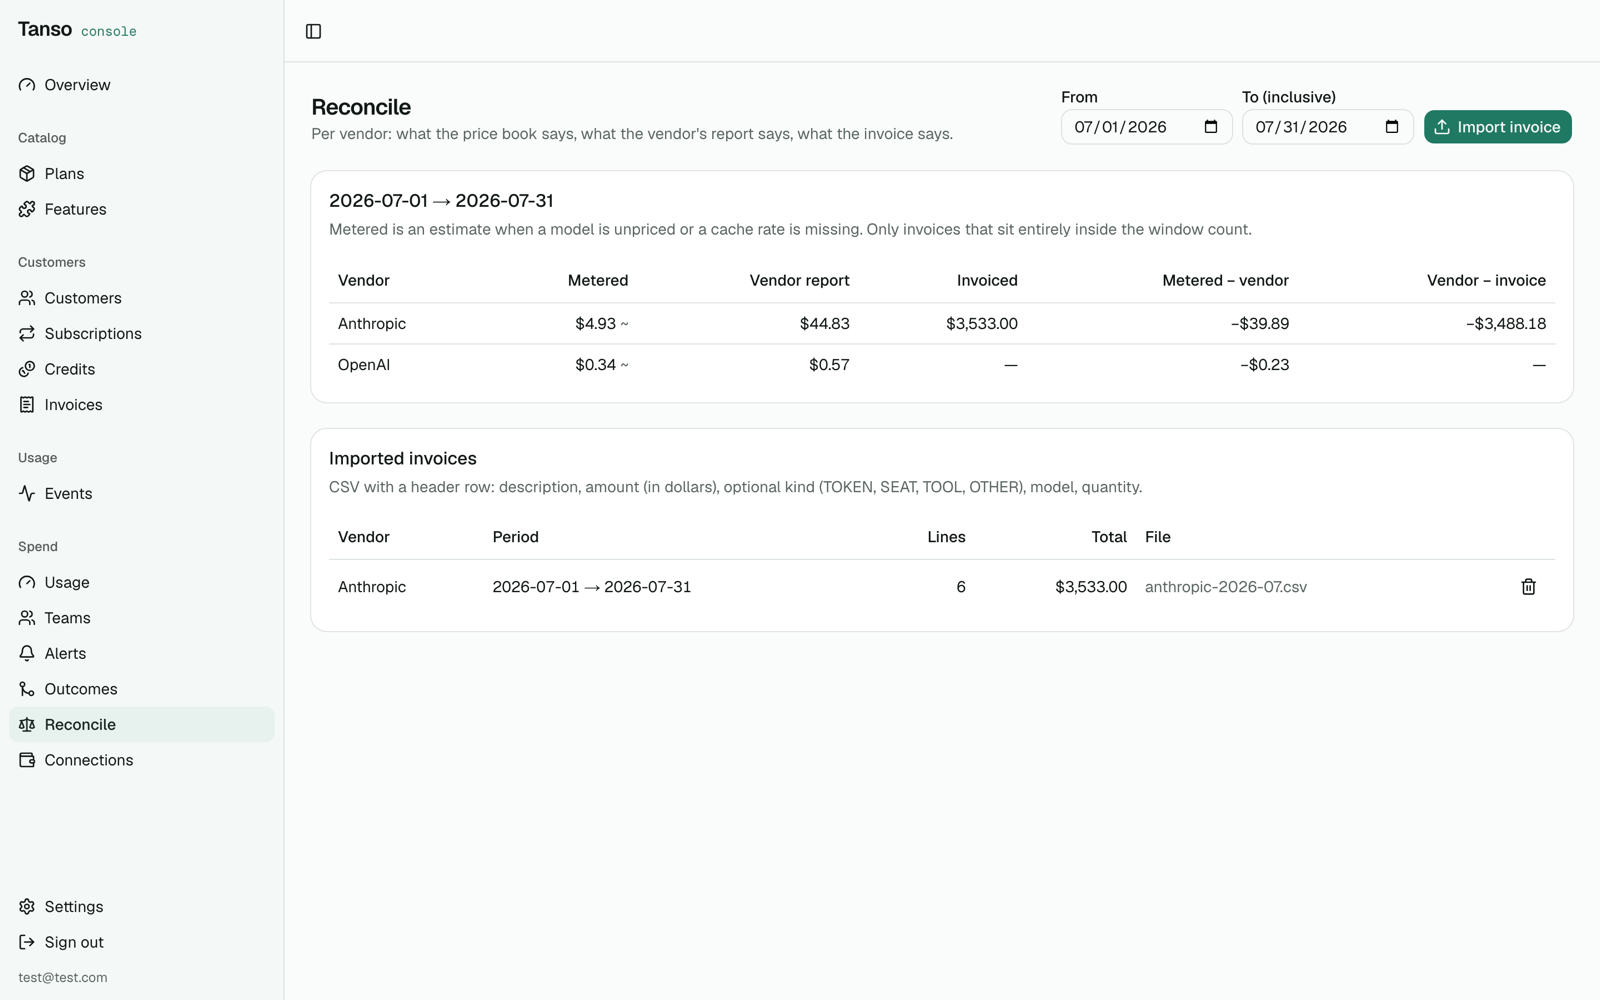
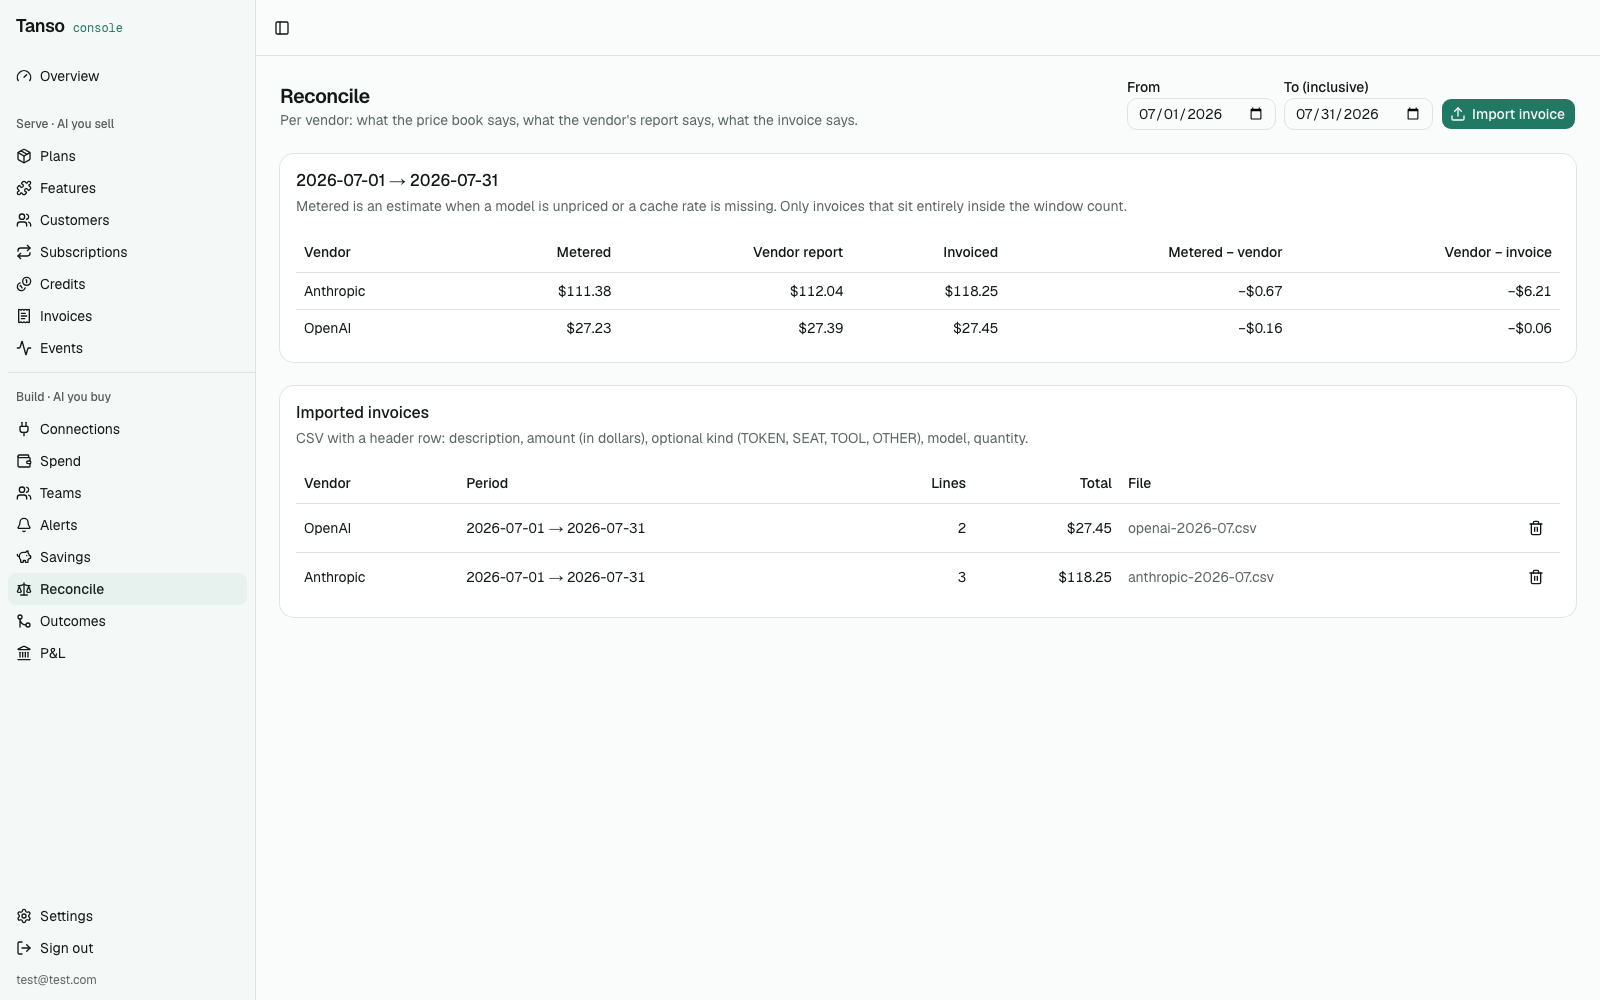
console: name the two halves, and put every README screenshot in light mode
The sidebar mixed four groups (Catalog, Customers, Usage, Spend) with "Usage"
meaning two different things, and hid Connections at the bottom of a group
that shows nothing until a vendor is connected. Now two groups, Customer
billing and Internal spend, with Connections first. Tabs were considered and
rejected: they would hide the internal spend half from operators who only
know the billing side, which is the opposite of the pitch.

Three README screenshots and the plan GIF were still dark-theme captures from
early August next to the light-theme set from the 25th. Recaptured in light,
and the Reconcile shot now uses figures that agree within a few dollars
instead of an invoice 80x the vendor report.

README intro leads with spend visibility in both directions; the two halves
are named the same way everywhere.

diff --git a/ui/components/app-sidebar.tsx b/ui/components/app-sidebar.tsx
@@ -10,6 +10,7 @@ import {
   GitMerge,
   LogOut,
   Package,
+  Plug,
   Puzzle,
   ReceiptText,
   Repeat,
@@ -32,33 +33,33 @@ import {
   SidebarMenu,
   SidebarMenuButton,
   SidebarMenuItem,
+  SidebarSeparator,
 } from "@/components/ui/sidebar"
 import { clearToken, getClaims } from "@/lib/auth"
 import { isBuildSideOff, useVendorConnections } from "@/features/spend/queries"
 
-const catalogNav = [
+// Customer billing: the AI you sell. Plans, credits, margin per customer.
+const serveNav = [
   { title: "Plans", href: "/plans", icon: Package },
   { title: "Features", href: "/features", icon: Puzzle },
-]
-
-const customersNav = [
   { title: "Customers", href: "/customers", icon: Users },
   { title: "Subscriptions", href: "/subscriptions", icon: Repeat },
   { title: "Credits", href: "/credits", icon: Coins },
   { title: "Invoices", href: "/invoices", icon: ReceiptText },
+  { title: "Events", href: "/events", icon: Activity },
 ]
 
-const usageNav = [{ title: "Events", href: "/events", icon: Activity }]
-
-const spendNav = [
-  { title: "Usage", href: "/spend/usage", icon: Gauge },
+// Internal spend: the AI you buy. Connections first, since nothing else here
+// shows anything until a vendor is connected.
+const buildNav = [
+  { title: "Connections", href: "/spend/connections", icon: Plug },
+  { title: "Spend", href: "/spend/usage", icon: Wallet },
   { title: "Teams", href: "/spend/teams", icon: Users },
   { title: "Alerts", href: "/spend/alerts", icon: Bell },
-  { title: "Outcomes", href: "/spend/outcomes", icon: GitMerge },
   { title: "Savings", href: "/spend/savings", icon: PiggyBank },
-  { title: "P&L", href: "/spend/pnl", icon: Landmark },
   { title: "Reconcile", href: "/spend/reconcile", icon: Scale },
-  { title: "Connections", href: "/spend/connections", icon: Wallet },
+  { title: "Outcomes", href: "/spend/outcomes", icon: GitMerge },
+  { title: "P&L", href: "/spend/pnl", icon: Landmark },
 ]
 
 export function AppSidebar() {
@@ -75,6 +76,20 @@ export function AppSidebar() {
   function logout() {
     clearToken()
     router.replace("/login")
+  }
+
+  function renderItems(items: typeof serveNav) {
+    return items.map((item) => (
+      <SidebarMenuItem key={item.href}>
+        <SidebarMenuButton
+          render={<Link href={item.href} />}
+          isActive={isActive(item.href)}
+        >
+          <item.icon />
+          {item.title}
+        </SidebarMenuButton>
+      </SidebarMenuItem>
+    ))
   }
 
   return (
@@ -104,78 +119,21 @@ export function AppSidebar() {
           </SidebarGroupContent>
         </SidebarGroup>
         <SidebarGroup>
-          <SidebarGroupLabel>Catalog</SidebarGroupLabel>
+          <SidebarGroupLabel>Customer billing</SidebarGroupLabel>
           <SidebarGroupContent>
-            <SidebarMenu>
-              {catalogNav.map((item) => (
-                <SidebarMenuItem key={item.href}>
-                  <SidebarMenuButton
-                    render={<Link href={item.href} />}
-                    isActive={isActive(item.href)}
-                  >
-                    <item.icon />
-                    {item.title}
-                  </SidebarMenuButton>
-                </SidebarMenuItem>
-              ))}
-            </SidebarMenu>
-          </SidebarGroupContent>
-        </SidebarGroup>
-        <SidebarGroup>
-          <SidebarGroupLabel>Customers</SidebarGroupLabel>
-          <SidebarGroupContent>
-            <SidebarMenu>
-              {customersNav.map((item) => (
-                <SidebarMenuItem key={item.href}>
-                  <SidebarMenuButton
-                    render={<Link href={item.href} />}
-                    isActive={isActive(item.href)}
-                  >
-                    <item.icon />
-                    {item.title}
-                  </SidebarMenuButton>
-                </SidebarMenuItem>
-              ))}
-            </SidebarMenu>
-          </SidebarGroupContent>
-        </SidebarGroup>
-        <SidebarGroup>
-          <SidebarGroupLabel>Usage</SidebarGroupLabel>
-          <SidebarGroupContent>
-            <SidebarMenu>
-              {usageNav.map((item) => (
-                <SidebarMenuItem key={item.href}>
-                  <SidebarMenuButton
-                    render={<Link href={item.href} />}
-                    isActive={isActive(item.href)}
-                  >
-                    <item.icon />
-                    {item.title}
-                  </SidebarMenuButton>
-                </SidebarMenuItem>
-              ))}
-            </SidebarMenu>
+            <SidebarMenu>{renderItems(serveNav)}</SidebarMenu>
           </SidebarGroupContent>
         </SidebarGroup>
         {!buildSideOff && (
-          <SidebarGroup>
-            <SidebarGroupLabel>Spend</SidebarGroupLabel>
-            <SidebarGroupContent>
-              <SidebarMenu>
-                {spendNav.map((item) => (
-                  <SidebarMenuItem key={item.href}>
-                    <SidebarMenuButton
-                      render={<Link href={item.href} />}
-                      isActive={isActive(item.href)}
-                    >
-                      <item.icon />
-                      {item.title}
-                    </SidebarMenuButton>
-                  </SidebarMenuItem>
-                ))}
-              </SidebarMenu>
-            </SidebarGroupContent>
-          </SidebarGroup>
+          <>
+            <SidebarSeparator />
+            <SidebarGroup>
+              <SidebarGroupLabel>Internal spend</SidebarGroupLabel>
+              <SidebarGroupContent>
+                <SidebarMenu>{renderItems(buildNav)}</SidebarMenu>
+              </SidebarGroupContent>
+            </SidebarGroup>
+          </>
         )}
       </SidebarContent>
       <SidebarFooter>

diff --git a/README.md b/README.md
@@ -4,9 +4,10 @@
 
 # Tanso Core
 
-**Open-source monetization engine for B2B AI products** — for teams that sell
-credits or usage and whose inference costs are big enough that margin per
-customer is a real question.
+**Open-source cost and pricing engine for AI products.** See what your teams
+spend on AI, by team, project and person, reconciled to the vendor's invoice.
+See what each customer costs you to serve, and price on it. One ledger, both
+directions.
 
 [Website](https://tansohq.com) · [Quick start](#quick-start-docker) · [Next.js example](#try-the-five-credit-nextjs-example) · [Features](#features) · [Agents & MCP](#agents--mcp) · [API & SDKs](#api-reference--sdks) · [Contributing](CONTRIBUTING.md) · [Docs](https://tanso.mintlify.app/introduction)
 
@@ -19,11 +20,19 @@ customer is a real question.
 
 ## Why Tanso
 
-Every metered event carries its cost: input/output tokens, model, provider,
-and what that usage cost you — alongside what you billed for it. Billing tools
-meter usage but don't know your costs; observability tools know your costs but
-don't bill. Tanso does both in one ledger, so you can see margin per customer,
-per feature, per model.
+People want to see where the AI money goes, and today it is split across a
+vendor bill that only shows a total, a billing tool that meters usage but
+doesn't know your costs, and an observability tool that knows your costs but
+doesn't bill. Tanso puts both directions on one ledger.
+
+For the AI you sell, every metered event carries its cost: input/output tokens,
+model, provider, and what that usage cost you, next to what you billed for it.
+Margin per customer, per feature, per model falls out of the same ledger that
+bills. For the AI you buy, usage and cost are pulled from the vendors' own admin
+APIs (Anthropic, OpenAI, Cursor, GitHub Copilot, LiteLLM), reconciled to the
+invoice, allocated to teams and projects, capped, and joined to what shipped.
+No proxy, no agent on laptops, no prompts collected. See
+[Internal AI spend](#internal-ai-spend).
 
 The same ledger enforces in real time: entitlement checks, usage caps, and
 credit limits are applied when the event is ingested, not reconciled at
@@ -244,17 +253,17 @@ psql "postgresql://dev_user:dev_pass@localhost:5432/core_db" \
 
 ---
 
-## Internal AI spend (build side)
+## Internal AI spend
 
-The engine has two halves. The **serve side** — everything above — answers what
-it costs to serve each customer. The **build side** answers what your own AI
-spend is: the Anthropic and OpenAI bills for your engineers and agents.
+The engine has two halves. **Customer billing**, everything above, answers what
+it costs to serve each customer. **Internal spend** answers what your own AI
+costs: the Anthropic and OpenAI bills for your engineers and agents.
 
-<img src=".github/assets/screenshots/spend-usage.png" alt="Spend → Usage — internal AI usage by model, by person, by day; price-book cost next to the vendor's report" width="800" />
+<img src=".github/assets/screenshots/spend-usage.png" alt="Internal spend → Usage — internal AI usage by model, by person, by day; price-book cost next to the vendor's report" width="800" />
 
 It works from the vendor's admin API, not a proxy in your request path:
 
-1. **Spend → Connections**: store an Anthropic admin key (`sk-ant-admin01-…`),
+1. **Internal spend → Connections**: store an Anthropic admin key (`sk-ant-admin01-…`),
    an OpenAI admin key, a Cursor admin API key (Enterprise; sent as HTTP
    Basic with the key as username; Cursor caps a window at 30 days, so a
    longer sync is pulled in 30-day chunks), a GitHub token with the *View
@@ -266,20 +275,20 @@ It works from the vendor's admin API, not a proxy in your request path:
    characters are ever shown. **Check key** makes one call to prove it works;
    **Sync now** pulls the last 30 days. An hourly job re-pulls the last three
    days after that (vendor reports lag by up to an hour).
-2. **Spend → Usage**: tokens and cost by model, by day, and by person, two
+2. **Internal spend → Usage**: tokens and cost by model, by day, and by person, two
    ways — what the price book (`model_pricing`) says the tokens should cost
    and what the vendor's own cost report says. The by-person view also shows
    what each vendor reports per seat: Claude Code sessions, commits, PRs and
    tool accept/reject; Cursor accepted lines, accepts/rejects and requests;
    Copilot interactions, accepted code and AI credits. Anthropic reports
    people only for Claude Code; OpenAI only for user-scoped keys.
-3. **Spend → Reconcile**: per vendor and period, metered vs vendor-reported
+3. **Internal spend → Reconcile**: per vendor and period, metered vs vendor-reported
    vs invoiced, with the two variances. Import the bill as a CSV with a header
    row — `description, amount` (dollars), optional `kind` (TOKEN, SEAT, TOOL,
    OTHER), `model`, `quantity`. An invoice only counts toward a window it sits
    entirely inside.
 
-4. **Spend → Teams**: units (teams, projects, and — once switched on — people,
+4. **Internal spend → Teams**: units (teams, projects, and — once switched on — people,
    nested however you like) and attribution rules that map a vendor workspace
    or project id, an API key id, or an actor onto a unit. Rules apply at
    report time, so editing one re-allocates history; when several rules match
@@ -289,7 +298,7 @@ It works from the vendor's admin API, not a proxy in your request path:
    measure that total. Each unit can carry a budget: a small **daily**
    ceiling that catches a runaway agent and a **monthly** one for the real
    number (UTC calendar windows), with an alert threshold (default 80%).
-5. **Spend → Alerts**: threshold and breach alerts on each ceiling, plus a
+5. **Internal spend → Alerts**: threshold and breach alerts on each ceiling, plus a
    **spike** when a unit has spent at least $5 today and more than twice its
    trailing-seven-day daily average — each once per window,
    checked after every sync and hourly; acknowledge to clear. Posted to a
@@ -302,7 +311,7 @@ It works from the vendor's admin API, not a proxy in your request path:
    touching the standing number; it drops off on its own and is re-pushed to
    the gateway both ways. A **weekly digest** (Monday 08:00 UTC, opt-in) sends
    last week's spend per unit against the week before, with budget standing,
-   to the same channels; preview or send it from Spend → Alerts. Tanso is not
+   to the same channels; preview or send it from Internal spend → Alerts. Tanso is not
    in the request path, so on its own a "Block" budget cannot stop a request —
    its alert says so. **Gateway mode**: connect a LiteLLM proxy and add a
    LiteLLM rule to the unit (its team id, key or user); a Block budget is then
@@ -314,7 +323,7 @@ It works from the vendor's admin API, not a proxy in your request path:
    measures the budget on its price book, LiteLLM enforces against its own
    model map — the card shows both figures so the drift is visible.
 
-6. **Spend → Savings**: what prompt caching is worth — per model, the
+6. **Internal spend → Savings**: what prompt caching is worth — per model, the
    input-side cost as billed against the same tokens with no cache (cache-read
    share, cache writes, $ saved; models without cache rates read as zero and
    say so) — and a **route simulator**: pick a model's traffic, a target from
@@ -322,7 +331,7 @@ It works from the vendor's admin API, not a proxy in your request path:
    target's rates with the caveats spelled out (tokenizer drift, no cache
    rates, quality not modelled). Advice only; Tanso never routes.
 
-7. **Spend → P&L**: the join the two halves exist for. Link a *project*
+7. **Internal spend → P&L**: the join the two halves exist for. Link a *project*
    unit to the serve-side feature it shipped (Teams → the project → Feature),
    and the report puts the project's AI build cost (its attributed spend, with
    descendants) next to that feature's revenue and serving cost from the
@@ -332,19 +341,19 @@ It works from the vendor's admin API, not a proxy in your request path:
    make the serve margin equal the revenue. Projects with no feature are
    listed, not hidden.
 
-<img src=".github/assets/screenshots/spend-teams.png" alt="Spend → Teams — allocation to projects, teams and people, with roll-up and the person's Claude Code estimate kept separate" width="800" />
+<img src=".github/assets/screenshots/spend-teams.png" alt="Internal spend → Teams — allocation to projects, teams and people, with roll-up and the person's Claude Code estimate kept separate" width="800" />
 
-<img src=".github/assets/screenshots/spend-alerts.png" alt="Spend → Alerts — daily breach and monthly threshold alerts, once per window" width="800" />
+<img src=".github/assets/screenshots/spend-alerts.png" alt="Internal spend → Alerts — daily breach and monthly threshold alerts, once per window" width="800" />
 
-<img src=".github/assets/screenshots/spend-gateway-budget.png" alt="Spend → Teams — a Block budget enforced at LiteLLM, bumped for launch week, with the gateway's own count beside Tanso's" width="800" />
+<img src=".github/assets/screenshots/spend-gateway-budget.png" alt="Internal spend → Teams — a Block budget enforced at LiteLLM, bumped for launch week, with the gateway's own count beside Tanso's" width="800" />
 
-<img src=".github/assets/screenshots/spend-digest.png" alt="Spend → Alerts — the weekly digest: last week per unit against the week before, month-to-date against the ceiling" width="800" />
+<img src=".github/assets/screenshots/spend-digest.png" alt="Internal spend → Alerts — the weekly digest: last week per unit against the week before, month-to-date against the ceiling" width="800" />
 
-<img src=".github/assets/screenshots/spend-savings.png" alt="Spend → Savings — what prompt caching saved per model, and a route simulation of the same tokens on another model" width="800" />
+<img src=".github/assets/screenshots/spend-savings.png" alt="Internal spend → Savings — what prompt caching saved per model, and a route simulation of the same tokens on another model" width="800" />
 
-<img src=".github/assets/screenshots/spend-pnl.png" alt="Spend → P&L — a project's AI build cost next to the revenue and serving cost of the feature it shipped" width="800" />
+<img src=".github/assets/screenshots/spend-pnl.png" alt="Internal spend → P&L — a project's AI build cost next to the revenue and serving cost of the feature it shipped" width="800" />
 
-6. **Spend → Outcomes**: shipped work next to what it cost. Connect GitHub
+6. **Internal spend → Outcomes**: shipped work next to what it cost. Connect GitHub
    (merged pull requests per repo) or Linear (completed issues per team), or
    have any CI job post one: `POST /api/v1/client/outcomes` with the tenant
    `sk_` key (or `/api/v1/spend/outcomes` with a console JWT) and a body of
@@ -364,7 +373,7 @@ It works from the vendor's admin API, not a proxy in your request path:
    cost per merged PR, per team, per month. Pulled hourly for the last three
    days; re-pulls upsert.
 
-<img src=".github/assets/screenshots/spend-outcomes.png" alt="Spend → Outcomes — merged PRs and completed issues next to allocated spend: cost per outcome per unit" width="800" />
+<img src=".github/assets/screenshots/spend-outcomes.png" alt="Internal spend → Outcomes — merged PRs and completed issues next to allocated spend: cost per outcome per unit" width="800" />
 
 Person-level attribution is **off by default**. Attributing spend to a named
 employee is a monitoring capability (in Germany a works council can veto it);
@@ -421,7 +430,7 @@ supply them via environment variables. The common ones:
 | `MASTER_ACCOUNT_ID` / `DEFAULT_FREE_PLAN_ID` | Dogfooding identifiers |
 | `TANSO_TELEMETRY_ENABLED` | Anonymous instance telemetry (`true` by default, set `false` to opt out) |
 | `APP_MODULES_BUILD_ENABLED` | Internal AI spend — the console's Spend section and `/api/v1/spend/**` (`true` by default; `false` for a serve-side-only install) When `false`, every `/api/v1/spend/**` call answers 404 with `error.code: module_disabled`, which is what the console keys on to hide the Spend group |
-| `APP_SPEND_ANTHROPIC_BASE_URL` / `APP_SPEND_OPENAI_BASE_URL` | Where the build side pulls usage and cost from (defaults: the vendors' APIs; set to a gateway or proxy) |
+| `APP_SPEND_ANTHROPIC_BASE_URL` / `APP_SPEND_OPENAI_BASE_URL` | Where internal spend pulls usage and cost from (defaults: the vendors' APIs; set to a gateway or proxy) |
 | `APP_SPEND_GITHUB_BASE_URL` / `APP_SPEND_LINEAR_BASE_URL` | Where outcomes (and Copilot metrics) are pulled from (defaults: api.github.com, api.linear.app/graphql) |
 | `APP_SPEND_CURSOR_BASE_URL` | Where Cursor usage is pulled from (default api.cursor.com) |
 | `APP_SPEND_OUTBOUND_ALLOW_PRIVATE` | Whether operator-typed URLs (LiteLLM proxy, webhook) may point at private ranges (default `true` — a self-hosted proxy lives there). Loopback and link-local (cloud metadata) are always refused. Set `false` on a multi-tenant install |
